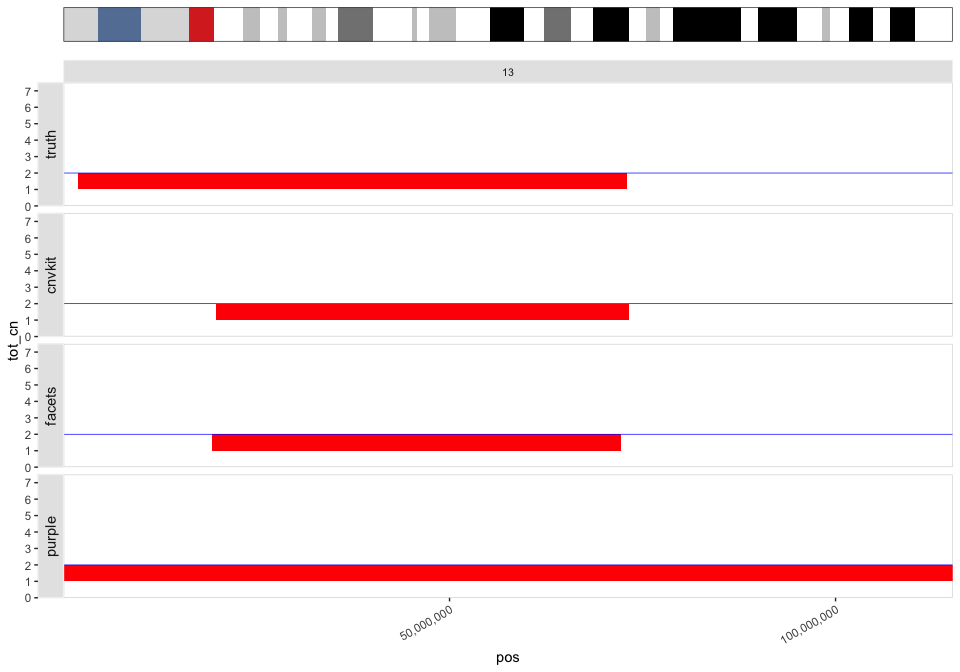
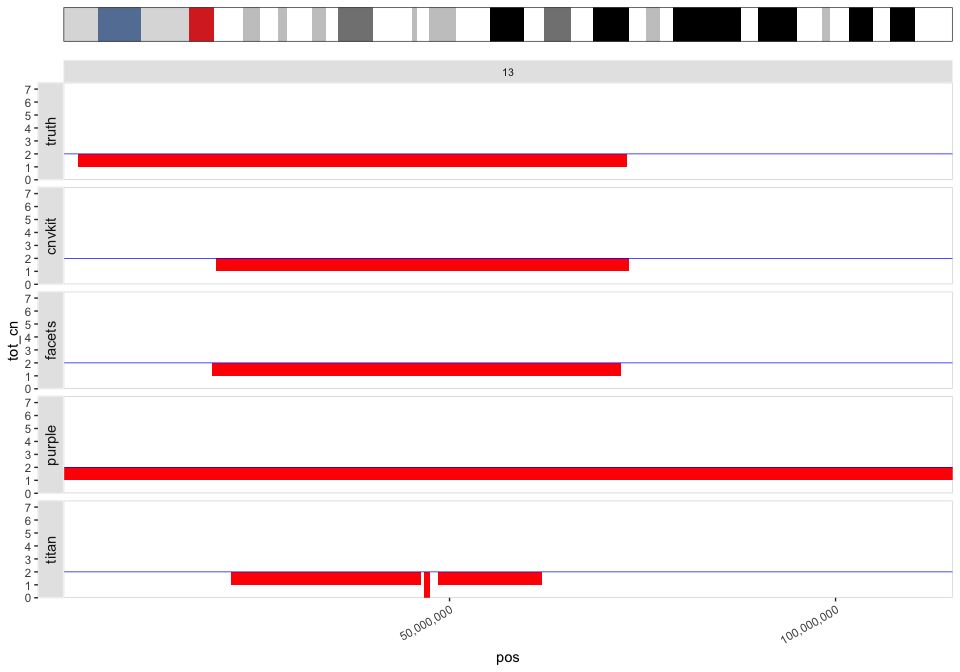
change piano colours

diff --git a/README.md b/README.md
@@ -77,9 +77,10 @@ truth <- system.file("extdata", "HCC2218_truthset_cnv_bcbio.tsv", package = "peb
 sv_manta <- prep_manta_vcf(manta)
 cn_facets <- prep_facets_seg(facets)
 cn_cnvkit <- prep_cnvkit_seg(cnvkit)
-cn_titan <- prep_titan_seg(titan)
 cn_purple <- prep_purple_seg(purple)
 cn_truth <- prep_truth_seg(truth)
+cn_titan <- prep_titan_seg(titan) # titan needs -1 for this case
+cn_titan$cnv$tot_cn <- cn_titan$cnv$tot_cn - 1
 ```
 
   - Now we can generate a circos plot with Manta links and
@@ -134,7 +135,8 @@ samples.
 <!-- end list -->
 
 ``` r
-plot_piano(list(truth = cn_truth, cnvkit = cn_cnvkit, facets = cn_facets, purple = cn_purple, titan = cn_titan))
+cnv_list <- list(truth = cn_truth, cnvkit = cn_cnvkit, facets = cn_facets, purple = cn_purple, titan = cn_titan)
+plot_piano(cnv_list = cnv_list)
 ```
 
 <img src="man/figures/README-piano-plot-cnvkit-facets-purple-titan1-1.png" width="100%" />
@@ -145,12 +147,21 @@ chromosomes:
 <!-- end list -->
 
 ``` r
-plot_piano(list(truth = cn_truth, cnvkit = cn_cnvkit, facets = cn_facets, purple = cn_purple, titan = cn_titan),
-           chromosomes = c("1", "7", "8"),
-           hide_x_lab = FALSE)
+plot_piano(cnv_list = cnv_list, chromosomes = c("1", "7", "8"), hide_x_lab = FALSE)
 ```
 
 <img src="man/figures/README-piano-plot-chrom-1.png" width="100%" />
+
+  - Change colours of the CNV segments:
+
+<!-- end list -->
+
+``` r
+plot_piano(cnv_list = cnv_list, chromosomes = c("1", "7", "8"),
+           seg.col = c("orange", "lightblue", "blue", "pink"), hide_x_lab = FALSE)
+```
+
+<img src="man/figures/README-piano-plot-chrom-colours-1.png" width="100%" />
 
   - And even plot an ideogram of the chromosome:
 
@@ -160,7 +171,7 @@ plot_piano(list(truth = cn_truth, cnvkit = cn_cnvkit, facets = cn_facets, purple
 require(patchwork)
 #> Loading required package: patchwork
 plot_ideogram(chrom = "13") +
-  plot_piano(list(truth = cn_truth, cnvkit = cn_cnvkit, facets = cn_facets, purple = cn_purple), 
+  plot_piano(cnv_list = cnv_list,
              chromosomes = "13", hide_x_lab = FALSE) +
   plot_layout(ncol = 1, heights = c(1, 15))
 ```
